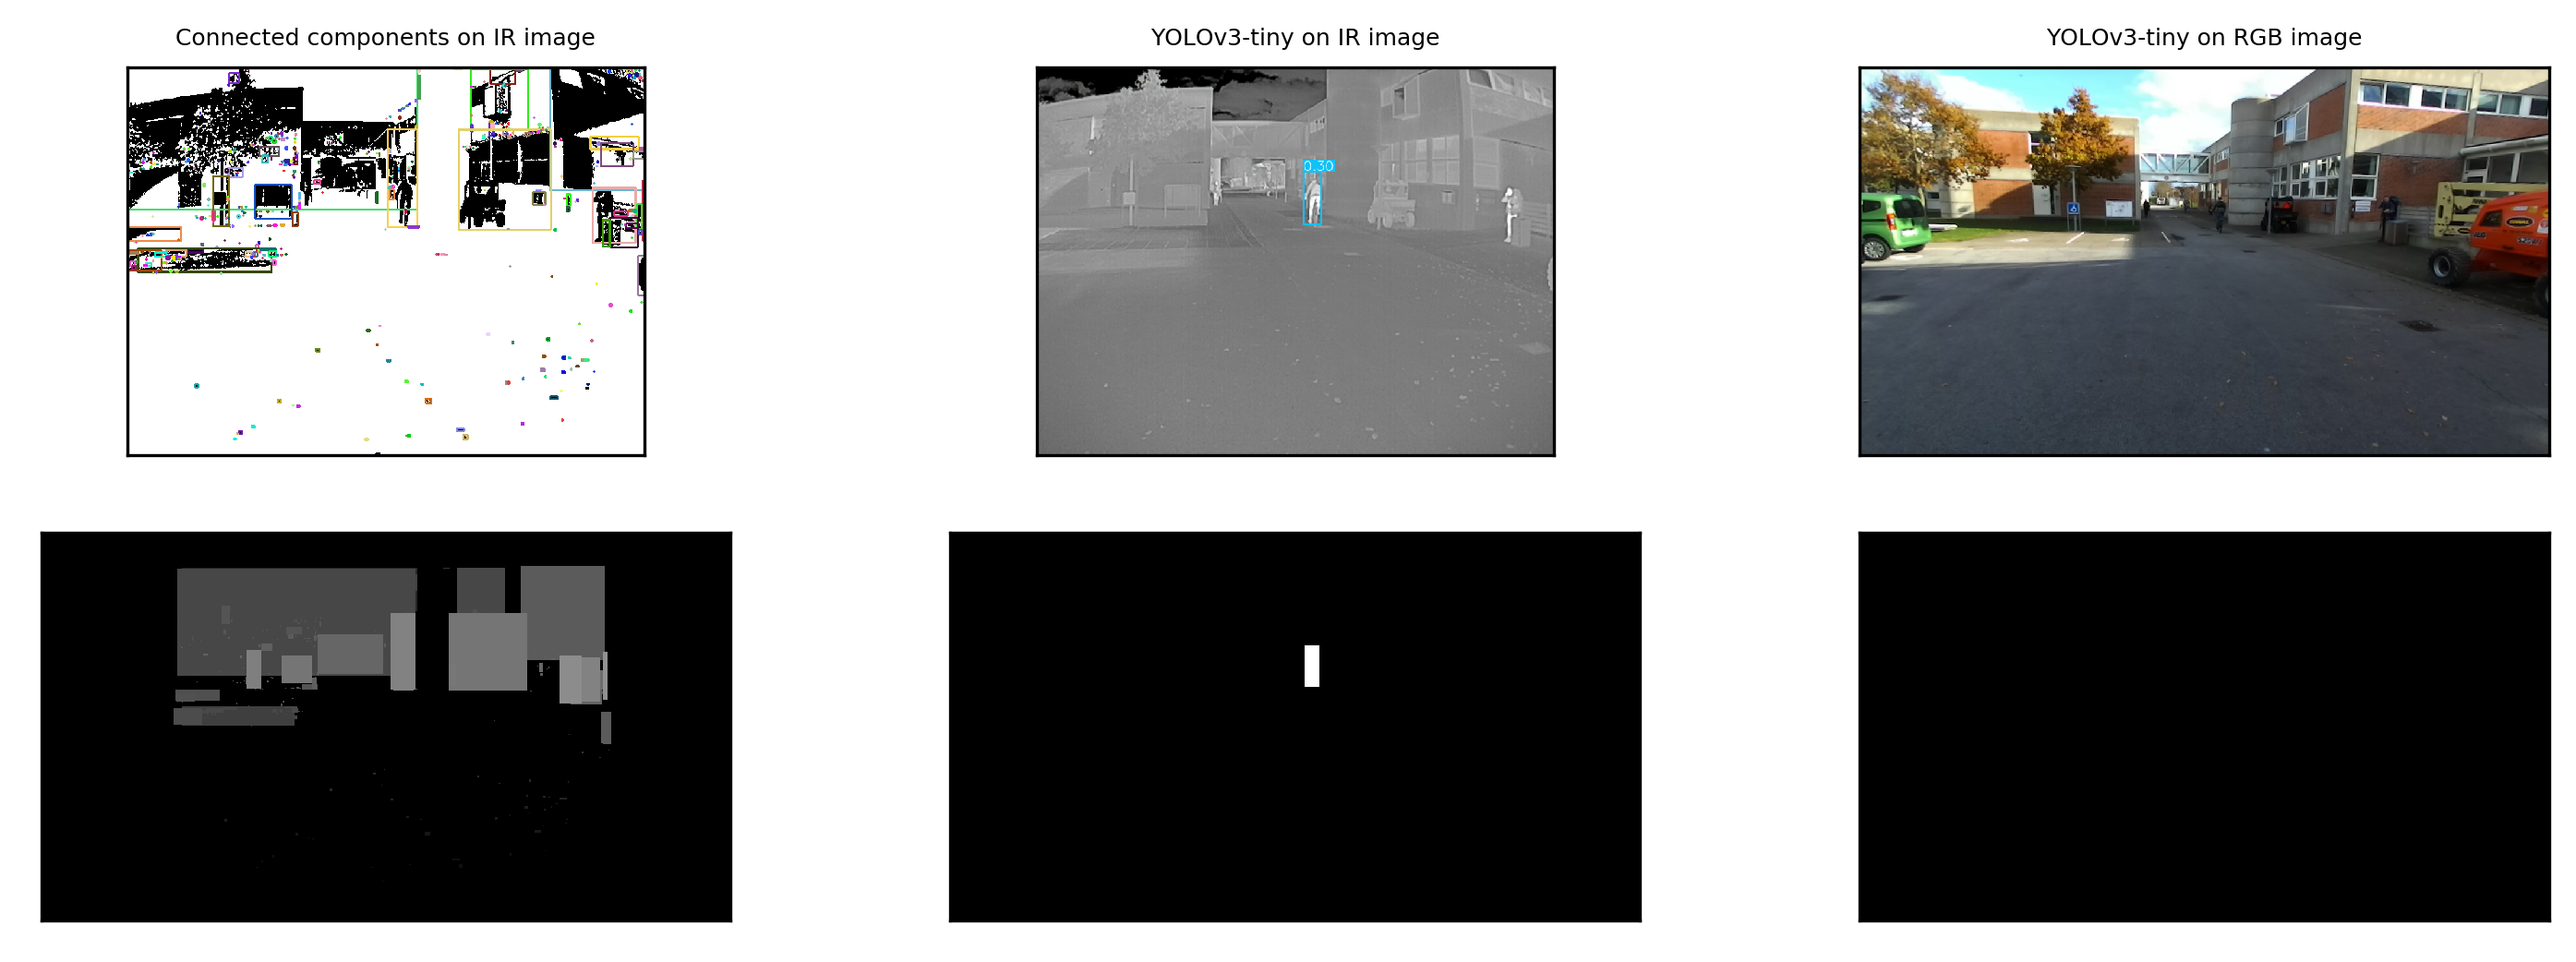
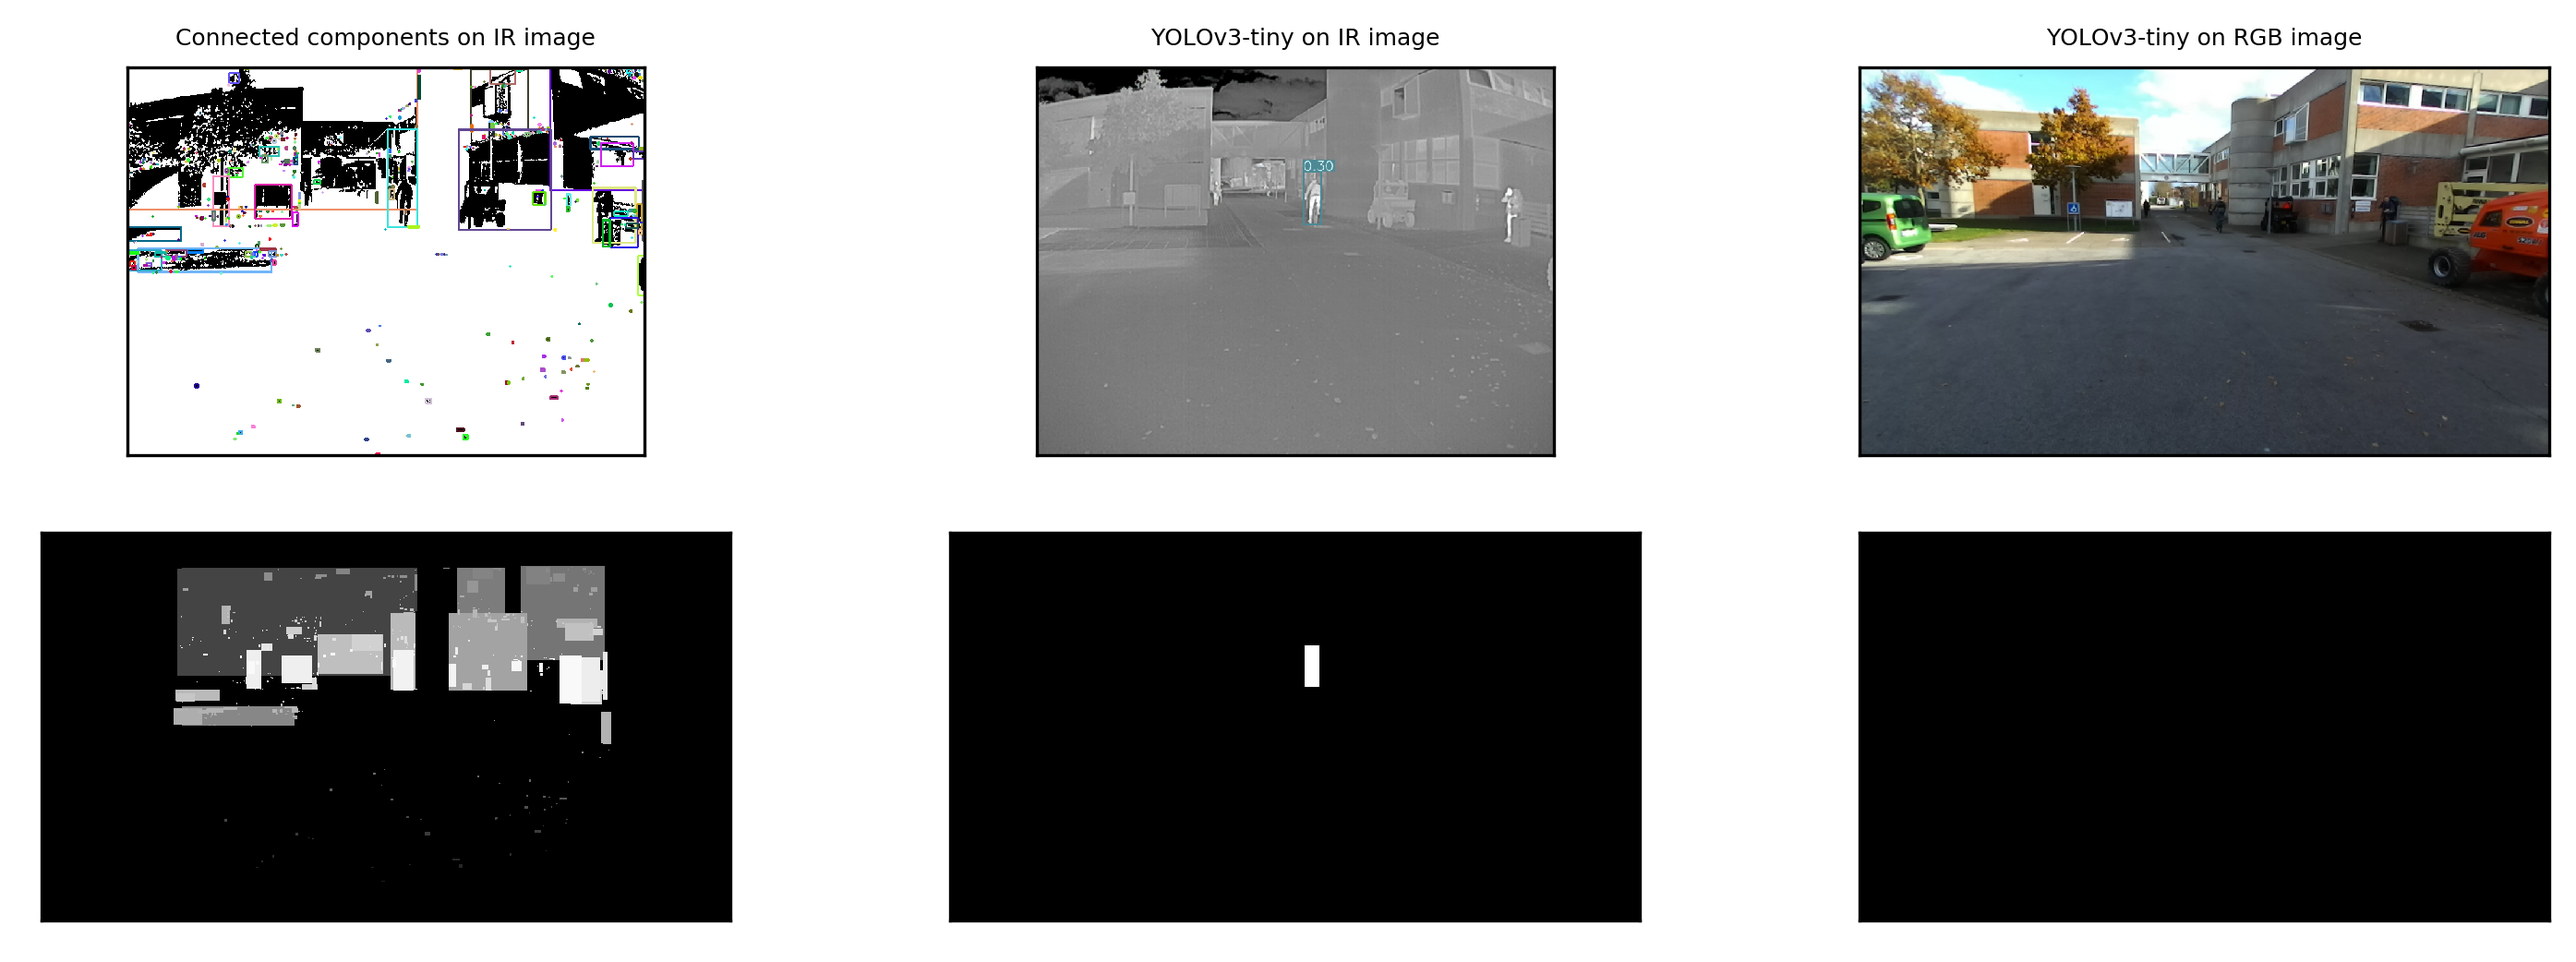
save total conf map for 4 different pairs

diff --git a/catkin_ws/src/persondetection/src/testing/testing_confmap_eval.py b/catkin_ws/src/persondetection/src/testing/testing_confmap_eval.py
@@ -13,7 +13,8 @@ folder = "src/persondetection/src/testing/"
 
 pairs = [("1571746625368332498_ircam.png","1571746625385033721_zed.png","1571746625385033721_GT.png"),
          ("1571746631630210616_ircam.png","1571746631605020001_zed.png","1571746631605020001_GT.png"),
-         ("1571746633060068411_ircam.png","1571746633070918853_zed.png","1571746633070918853_GT.png")]
+         ("1571746633060068411_ircam.png","1571746633070918853_zed.png","1571746633070918853_GT.png"),
+         ("1571746634460540239_ircam.png","1571746634504400900_zed.png","1571746634504400900_GT.png")]
 
 for pair in pairs:
     ir = cv2.imread(folder+"test_img/ir/"+pair[0])
@@ -54,7 +55,7 @@ for pair in pairs:
         plt.xticks([]), plt.yticks([])
 
     filename = pair[1].split(".")[-2]
-    # plt.savefig(folder + "results/total_confmap/" + filename + "_detail.png", bbox_inches='tight')
+    plt.savefig(folder + "results/total_confmap/" + filename + "_detail.png", bbox_inches='tight')
 
     images = [gt,total_map]
     titles = ["Ground truth", "Total confidence map"]
@@ -66,5 +67,5 @@ for pair in pairs:
         plt.title(titles[i])
         plt.xticks([]), plt.yticks([])
 
-    # plt.savefig(folder + "results/total_confmap/"+filename+"_total.png", bbox_inches='tight')
-    plt.show()
+    plt.savefig(folder + "results/total_confmap/"+filename+"_total.png", bbox_inches='tight')
+    # plt.show()

diff --git a/catkin_ws/src/persondetection/src/testing/testing_yoloconfmap.py b/catkin_ws/src/persondetection/src/testing/testing_yoloconfmap.py
@@ -6,7 +6,7 @@ from utils.transformbox import get_boxes_zedframe
 from persondetection.run_yolo import *
 
 SHOW_PLOTS = True
-cam = "IR"
+cam = "ZED"
 
 folder = "src/persondetection/src/testing/"
 
